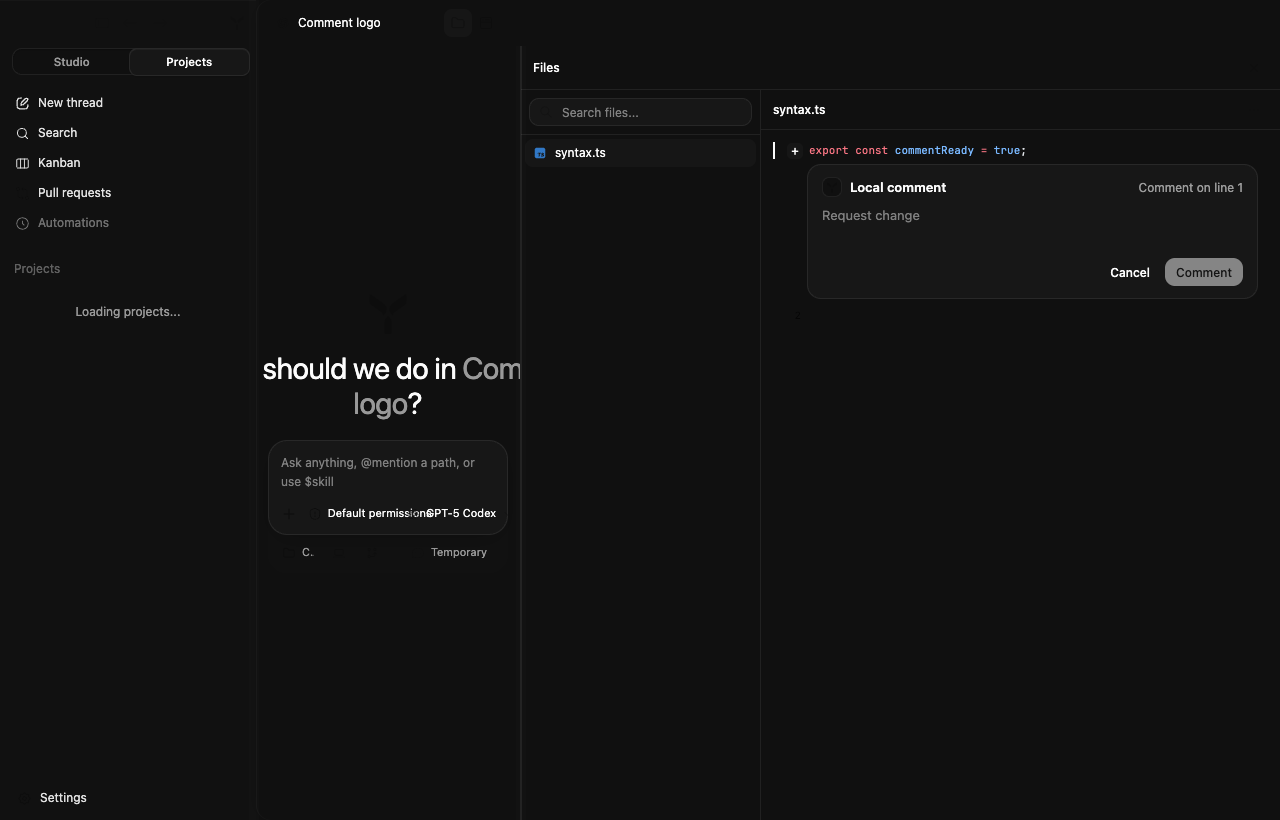
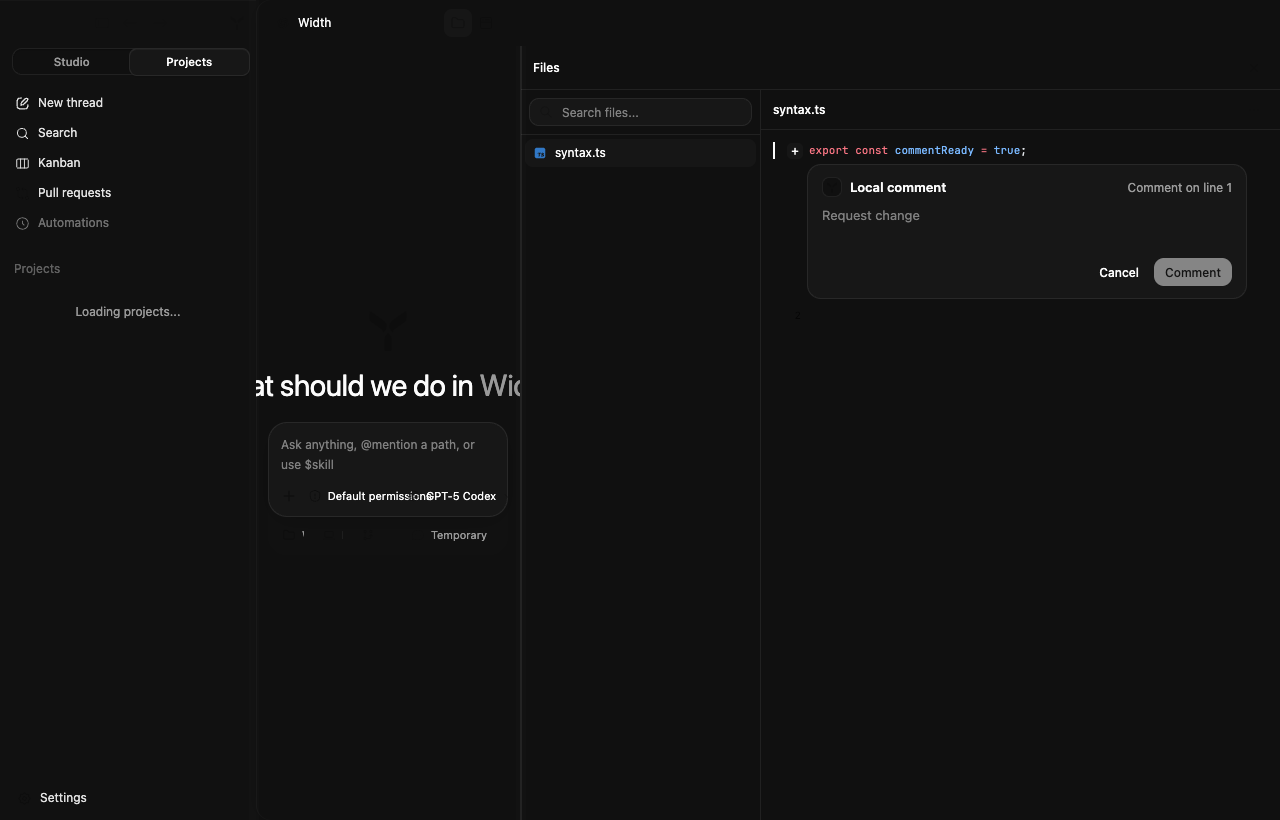
Match the Web file-comment width
Clamp the Lynx inline comment editor to Web's 440px authority while preserving narrow-panel shrink behavior, and refresh the retained matrix.

diff --git a/apps/lynx/src/app/ExplorerDock.lynx.test.tsx b/apps/lynx/src/app/ExplorerDock.lynx.test.tsx
@@ -153,6 +153,9 @@ describe('Lynx Explorer dock', () => {
       /\.ExplorerDockEntry\s*\{[^}]*min-height:\s*28px;[^}]*padding:\s*4px 8px;/s
     );
     expect(styles).toMatch(
+      /\.ExplorerDockCommentEditor\s*\{[^}]*width:\s*440px;[^}]*min-width:\s*240px;[^}]*max-width:\s*calc\(100% - 44px\);/s
+    );
+    expect(styles).toMatch(
       /\.ExplorerDockPreview\s*\{[^}]*flex:\s*1;[^}]*min-width:\s*0;[^}]*flex-direction:\s*column;/s
     );
     expect(styles).toMatch(

diff --git a/apps/lynx/src/app/explorer-dock.css b/apps/lynx/src/app/explorer-dock.css
@@ -427,7 +427,9 @@
 
 .ExplorerDockCommentEditor {
   display: flex;
+  width: 440px;
   min-width: 240px;
+  max-width: calc(100% - 44px);
   margin: 5px 10px 8px 34px;
   padding: 12px 14px;
   flex-direction: column;

diff --git a/apps/lynx/plan/reports/explorer-dock-completion-audit.md b/apps/lynx/plan/reports/explorer-dock-completion-audit.md
@@ -192,7 +192,7 @@ They are not converted into a guessed wire attachment or inserted into the
 visible prompt text.
 
 The retained light/dark frames are both `1280x820`, have identical
-`451x135 @ (807,164)` editor geometry, six named line controls, the active
+`440x135 @ (807,164)` editor geometry, six named line controls, the active
 line-5 band, current TypeScript tokens, and empty page-error logs. A real mouse
 click reached the line gutter and the existing Web-only compatibility layer
 represented the idempotent `explorerCommentLine=5` init target; Native keeps

diff --git a/shots/2026-08-10/explorer-comments-current/notes.md b/shots/2026-08-10/explorer-comments-current/notes.md
@@ -9,7 +9,7 @@
 - A real pointer click on the line-5 gutter produced the idempotent
   `explorerCommentLine=5` target and rendered the product editor.
 - Both themes expose six named `Comment on line N` controls, the active line-1
-  accent band, and identical `451x135 @ (807,164)` editor geometry.
+  accent band, and identical `440x135 @ (807,164)` editor geometry.
 - Editor copy matches Web: `Local comment`, `Comment on line 5`,
   `Request change`, Cancel, Comment. Both screenshots are exactly 1280x820 and
   page-errors.txt is empty.
